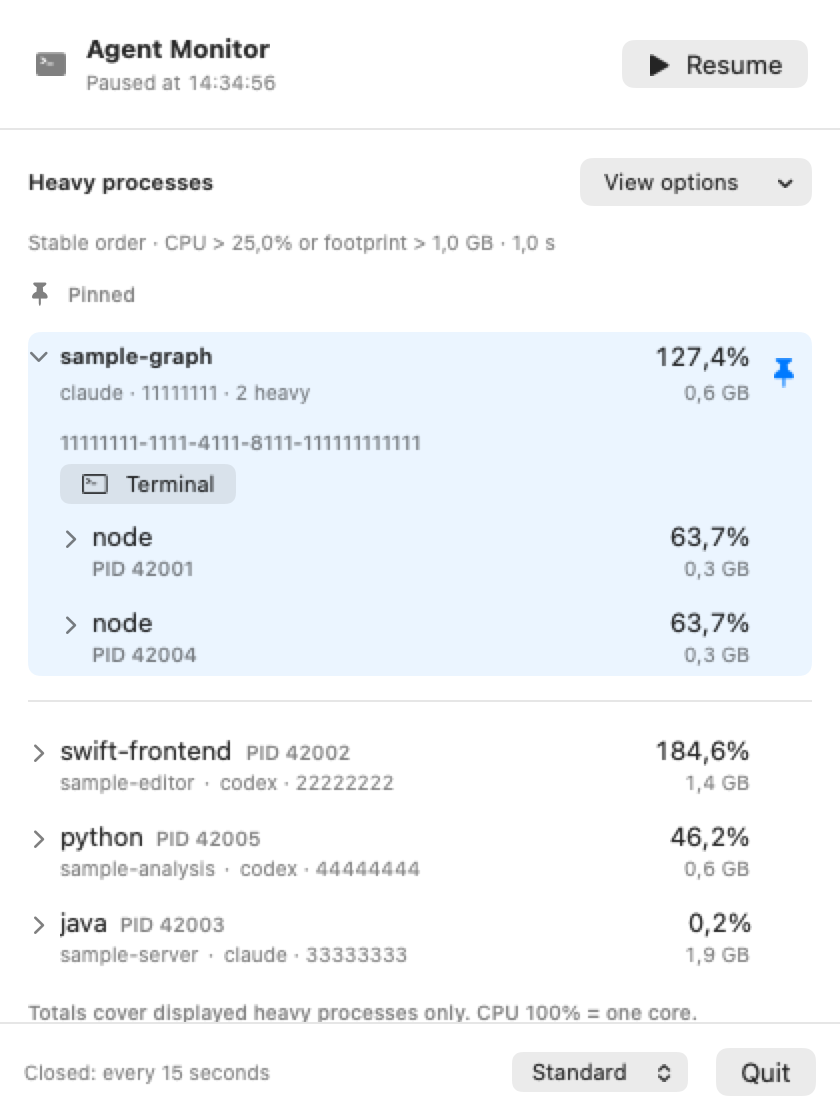
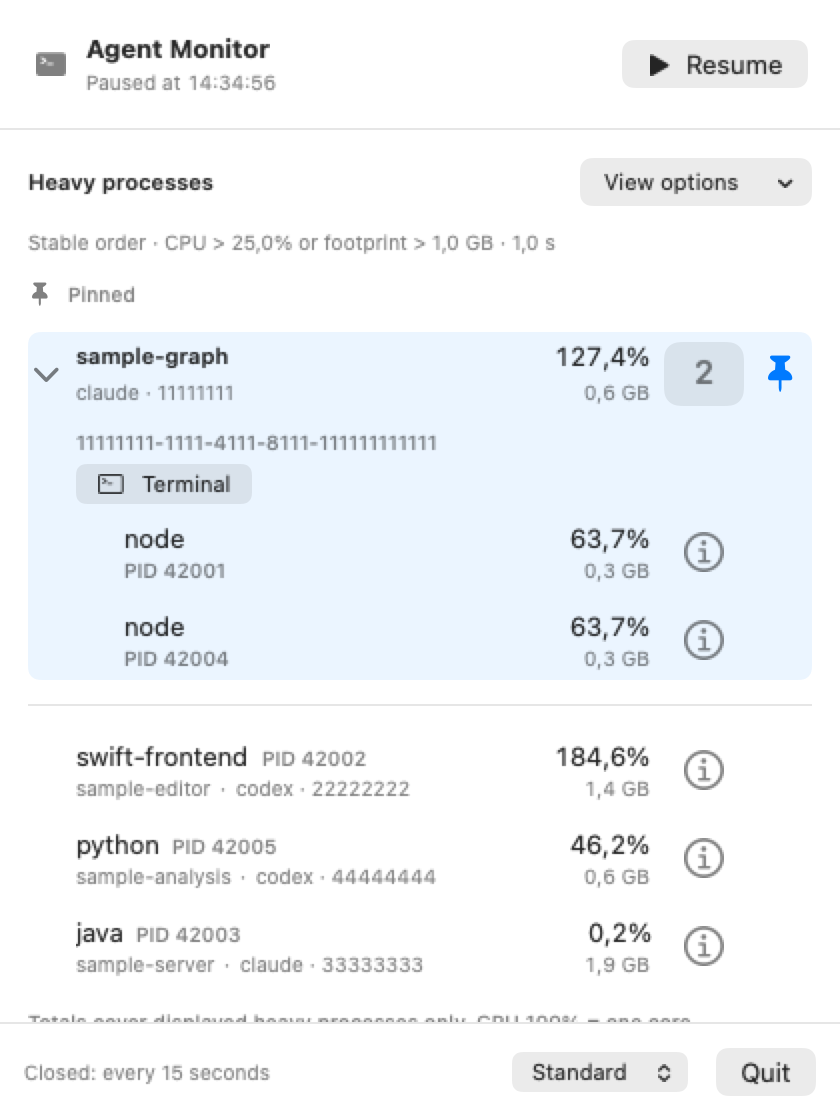
fix(menubar): distinguish groups and enlarge row controls
Reserve chevrons and count badges for session groups so process details have a distinct info affordance. Preserve whole-row toggling while enlarging pointer targets and keeping grouping and sampling unchanged.

diff --git a/Sources/AgentMonitorMenuBar/MenuBarDisclosureStyle.swift b/Sources/AgentMonitorMenuBar/MenuBarDisclosureStyle.swift
@@ -1,8 +1,45 @@
 import AgentMonitorPresentation
 import SwiftUI
 
+enum MenuBarRowDisclosure {
+    case group(count: Int)
+    case process
+
+    func accessibilityValue(expanded: Bool) -> String {
+        switch self {
+        case .group: expanded ? "Processes shown" : "Processes hidden"
+        case .process: expanded ? "Details shown" : "Details hidden"
+        }
+    }
+}
+
+struct MenuBarRowAccessory: View {
+    let disclosure: MenuBarRowDisclosure
+
+    var body: some View {
+        Group {
+            switch disclosure {
+            case .group(let count):
+                Text(count, format: .number.grouping(.never))
+                    .font(.system(size: 16, weight: .semibold, design: .rounded)).monospacedDigit()
+                    .padding(.horizontal, 4)
+                    .frame(minWidth: 40, minHeight: 32)
+                    .background(.primary.opacity(0.09), in: RoundedRectangle(cornerRadius: 8))
+                    .accessibilityLabel("\(count) heavy processes")
+            case .process:
+                Image(systemName: "info.circle")
+                    .font(.system(size: 20))
+                    .frame(width: 40, height: 32)
+                    .accessibilityLabel("Process details")
+            }
+        }
+        .foregroundStyle(.secondary)
+    }
+}
+
 struct MenuBarDisclosureStyle: DisclosureGroupStyle {
     let id: LiveReportRowID
+    let disclosure: MenuBarRowDisclosure
     let pinned: Bool
     let arrived: Bool
     let focus: FocusState<LiveReportRowID?>.Binding
@@ -12,13 +49,14 @@ struct MenuBarDisclosureStyle: DisclosureGroupStyle {
     func makeBody(configuration: Configuration) -> some View {
         VStack(alignment: .leading, spacing: 0) {
             MenuBarRowHeader(
-                id: id, pinned: pinned, expanded: configuration.isExpanded, focus: focus,
+                id: id, disclosure: disclosure, pinned: pinned, expanded: configuration.isExpanded,
+                focus: focus,
                 onToggle: { configuration.isExpanded.toggle() }, onPin: onPin, onPinShortcut: onPinShortcut,
                 label: configuration.label
             )
             .background(MenuBarArrivalBackground(highlighted: arrived))
             if configuration.isExpanded {
-                configuration.content.padding(.leading, 16)
+                configuration.content.padding(.leading, 24)
             }
         }
         .background(pinned ? Color.accentColor.opacity(0.08) : .clear, in: RoundedRectangle(cornerRadius: 6))
@@ -27,6 +65,7 @@ struct MenuBarDisclosureStyle: DisclosureGroupStyle {
 
 private struct MenuBarRowHeader<Label: View>: View {
     let id: LiveReportRowID
+    let disclosure: MenuBarRowDisclosure
     let pinned: Bool
     let expanded: Bool
     let focus: FocusState<LiveReportRowID?>.Binding
@@ -40,11 +79,19 @@ private struct MenuBarRowHeader<Label: View>: View {
     var body: some View {
         HStack(spacing: 2) {
             Button(action: onToggle) {
-                HStack(alignment: .firstTextBaseline, spacing: 6) {
-                    Image(systemName: expanded ? "chevron.down" : "chevron.right")
-                        .font(.caption2.weight(.semibold)).foregroundStyle(.secondary)
-                        .frame(width: 10).accessibilityHidden(true)
+                HStack(spacing: 6) {
+                    Group {
+                        switch disclosure {
+                        case .group:
+                            Image(systemName: expanded ? "chevron.down" : "chevron.right")
+                                .font(.system(size: 14, weight: .semibold)).foregroundStyle(.secondary)
+                        case .process:
+                            Color.clear
+                        }
+                    }
+                    .frame(width: 18, height: 32).accessibilityHidden(true)
                     label
+                    MenuBarRowAccessory(disclosure: disclosure)
                 }
                 .frame(maxWidth: .infinity, alignment: .leading)
                 .padding(.vertical, 4).contentShape(Rectangle())
@@ -54,7 +101,7 @@ private struct MenuBarRowHeader<Label: View>: View {
                 onToggle()
                 return .handled
             }
-            .accessibilityValue(expanded ? "Expanded" : "Collapsed")
+            .accessibilityValue(disclosure.accessibilityValue(expanded: expanded))
             MenuBarPinButton(pinned: pinned, action: onPin)
                 .opacity(pinned || hovered || pinFocused || focus.wrappedValue == id ? 1 : 0)
                 .focused($pinFocused)

diff --git a/Sources/AgentMonitorMenuBar/MenuBarView.swift b/Sources/AgentMonitorMenuBar/MenuBarView.swift
@@ -202,9 +202,12 @@ struct MenuBarView: View {
         }
     }
 
-    private func disclosureStyle(for id: LiveReportRowID) -> MenuBarDisclosureStyle {
+    private func disclosureStyle(
+        for id: LiveReportRowID, disclosure: MenuBarRowDisclosure
+    ) -> MenuBarDisclosureStyle {
         MenuBarDisclosureStyle(
-            id: id, pinned: model.report.isPinned(id), arrived: model.arrivals.deadlines[id] != nil,
+            id: id, disclosure: disclosure, pinned: model.report.isPinned(id),
+            arrived: model.arrivals.deadlines[id] != nil,
             focus: $focusedRow,
             onPin: { model.togglePin(id) }, onPinShortcut: { togglePinFromKeyboard(id) })
     }
@@ -268,7 +271,7 @@ struct MenuBarView: View {
                 }
                 HStack {
                     Text(
-                        "\(group.provider?.rawValue ?? "unknown") · \(group.sessionID.map { String($0.prefix(8)) } ?? (group.processes.first?.isSharedRuntime == true ? "shared runtime" : "unresolved")) · \(group.processes.count) heavy"
+                        "\(group.provider?.rawValue ?? "unknown") · \(group.sessionID.map { String($0.prefix(8)) } ?? (group.processes.first?.isSharedRuntime == true ? "shared runtime" : "unresolved"))"
                     )
                     .lineLimit(1)
                     Spacer(minLength: 4)
@@ -278,7 +281,9 @@ struct MenuBarView: View {
             }
         }
         .id(LiveReportRowID.group(group.id))
-        .disclosureGroupStyle(disclosureStyle(for: .group(group.id)))
+        .disclosureGroupStyle(
+            disclosureStyle(for: .group(group.id), disclosure: .group(count: group.processes.count))
+        )
         .contextMenu { rowCommands(.group(group.id)) }
     }
 
@@ -333,7 +338,7 @@ struct MenuBarView: View {
                 footprintText: resource(process.footprintBytes.map { Double($0) / 1e9 }, unit: " GB"))
         }
         .id(LiveReportRowID.process(process.process))
-        .disclosureGroupStyle(disclosureStyle(for: .process(process.process)))
+        .disclosureGroupStyle(disclosureStyle(for: .process(process.process), disclosure: .process))
         .contextMenu { rowCommands(.process(process.process)) }
     }
 

diff --git a/Tests/AgentMonitorMenuBarTests/MenuBarRenderTests.swift b/Tests/AgentMonitorMenuBarTests/MenuBarRenderTests.swift
@@ -8,11 +8,31 @@ import Testing
 @testable import AgentMonitorMenuBar
 
 @Test(arguments: [false, true])
-@MainActor func pinControlKeepsItsCompactFootprint(pinned: Bool) {
+@MainActor func pinControlHasAnEasyPointerTarget(pinned: Bool) {
     _ = NSApplication.shared
     let host = NSHostingView(rootView: MenuBarPinButton(pinned: pinned) { true })
     host.layoutSubtreeIfNeeded()
-    #expect(host.fittingSize == NSSize(width: 28, height: 28))
+    #expect(host.fittingSize == NSSize(width: 32, height: 32))
+}
+
+@Test(arguments: [MenuBarRowDisclosure.process, .group(count: 6), .group(count: 60), .group(count: 600)])
+@MainActor func rowAccessoriesHaveAnAlignedLargeTarget(disclosure: MenuBarRowDisclosure) {
+    _ = NSApplication.shared
+    let host = NSHostingView(rootView: MenuBarRowAccessory(disclosure: disclosure))
+    host.layoutSubtreeIfNeeded()
+    #expect(host.fittingSize == NSSize(width: 40, height: 32))
+}
+
+@Test @MainActor func groupBadgePreservesLargeCountsWithoutClipping() {
+    _ = NSApplication.shared
+    let host = NSHostingView(rootView: MenuBarRowAccessory(disclosure: .group(count: 12345)))
+    let number = NSHostingView(
+        rootView: Text("12345").font(.system(size: 16, weight: .semibold, design: .rounded)).monospacedDigit()
+    )
+    host.layoutSubtreeIfNeeded()
+    number.layoutSubtreeIfNeeded()
+    #expect(host.fittingSize.width >= number.fittingSize.width + 8)
+    #expect(host.fittingSize.height == 32)
 }
 
 @Test(
@@ -130,7 +150,7 @@ import Testing
     }
 }
 
-@Test(arguments: [320.0, 376.0], [false, true])
+@Test(arguments: [244.0, 280.0, 320.0, 376.0], [false, true])
 @MainActor func processSummaryFitsTwoLines(width: Double, showsSession: Bool) throws {
     let snapshot = try menuBarFixture(
         name: "swift-frontend-with-a-long-process-name", project: "a-project-with-a-long-directory-name")

diff --git a/Sources/AgentMonitorMenuBar/MenuBarPinButton.swift b/Sources/AgentMonitorMenuBar/MenuBarPinButton.swift
@@ -9,7 +9,8 @@ struct MenuBarPinButton: View {
             _ = action()
         } label: {
             Image(systemName: pinned ? "pin.fill" : "pin")
-                .frame(width: 28, height: 28).contentShape(Rectangle())
+                .font(.system(size: 16))
+                .frame(width: 32, height: 32).contentShape(Rectangle())
         }
         .buttonStyle(.plain).foregroundStyle(pinned ? Color.accentColor : .secondary)
         .accessibilityLabel(pinned ? "Unpin" : "Pin")

diff --git a/docs/development.md b/docs/development.md
@@ -137,7 +137,7 @@ Run `uv run scripts/verify-json-schema.py .build/release/agent-monitor` to valid
 
 Build with `bash scripts/menubar.sh build`; the default is an optimized release build with debug-symbol generation disabled. Use `AGENT_MONITOR_BUILD_CONFIGURATION=debug bash scripts/menubar.sh build` for an unoptimized local build, or `swift run agent-monitor-menubar` for normal debugger symbols. The local ad-hoc bundle is `.build/Agent Monitor.app`. Use `bash scripts/menubar.sh run` to launch with the shell PATH, or `swift run agent-monitor-menubar` for direct executable development. The menu bar app is a maintained source-built feature. Its local bundle is not included in CLI release archives or Homebrew installation; distribution is deferred until the app is finished. It adds no third-party dependencies. CI builds the local app bundle and checks its property list and ad-hoc signature.
 
-Run `swift test --filter AgentMonitorMenuBarTests` for lifecycle and fake-action coverage: explicit lifecycle startup with a single 250 ms first sample, 15-second closed sampling, open/closed cadence switching without duplicate collectors, static-mode cancellation, stale-result rejection, sequential reopening, visible collection errors, frozen termination identity, explicit message review, root routing, uncertain-send handling and closed-panel action rejection. Draft tests cover dismissal during composition/review, fresh recipient preparation, explicit cancellation, failed target/recipient verification, protection against overwriting another draft and uncertain-send exclusion. Native layout tests bound process summaries to two lines at compact widths and verify fixed panel height through sparse lists, disclosure/overflow, pausing and action review, plus user-selected sizes, screen limits and inline keyboard help. An offscreen inheritance test changes the parent appearance light → dark → light and checks the semantic background and unchanged geometry. Pause tests hold row membership/order and details, apply the latest pending sample on resume, guard action review and reset to live on reopening; TUI tests also cover visible pause/resume cues at narrow widths. Pin tests cover live values and insertion order, missing targets, PID reuse, return/unpin, grouping changes and parent/child overlap without duplicated rows or inflated totals. Native model tests cover settings/pins across dismissal, sampling control delivery without restart, focus traversal through flattened/pinned rows, and fake group terminal focus. Native menu tests cover first-layout availability and first-mouse acceptance, checked presets/custom current values, action dispatch, and retention of the same control/submenu objects across loading, empty and populated reports. Delegate tracking is simulated; these guards do not establish physical click delivery or live submenu tracking on a display. Pin command tests reject hidden/stale targets and action panels while permitting missing-pin removal. Existing core/presentation/action tests continue to guard attribution, grouping and transport behavior. Status-menu tests cover secondary-click routing, waiting/unavailable/static status, heavy-count explanations independent of table filters, shared checked options, deferred Open/Quit command selection and unchanged menu content while sampling continues. They do not establish physical event delivery or menu positioning. No test sends messages or signals live workloads.
+Run `swift test --filter AgentMonitorMenuBarTests` for lifecycle and fake-action coverage: explicit lifecycle startup with a single 250 ms first sample, 15-second closed sampling, open/closed cadence switching without duplicate collectors, static-mode cancellation, stale-result rejection, sequential reopening, visible collection errors, frozen termination identity, explicit message review, root routing, uncertain-send handling and closed-panel action rejection. Draft tests cover dismissal during composition/review, fresh recipient preparation, explicit cancellation, failed target/recipient verification, protection against overwriting another draft and uncertain-send exclusion. Native layout tests check 32-point pin targets, aligned 40 × 32-point count/info controls and uncropped large counts. They bound process summaries to two lines at compact widths and verify fixed panel height through sparse lists, disclosure/overflow, pausing and action review, plus user-selected sizes, screen limits and inline keyboard help. An offscreen inheritance test changes the parent appearance light → dark → light and checks the semantic background and unchanged geometry. Pause tests hold row membership/order and details, apply the latest pending sample on resume, guard action review and reset to live on reopening; TUI tests also cover visible pause/resume cues at narrow widths. Pin tests cover live values and insertion order, missing targets, PID reuse, return/unpin, grouping changes and parent/child overlap without duplicated rows or inflated totals. Native model tests cover settings/pins across dismissal, sampling control delivery without restart, focus traversal through flattened/pinned rows, and fake group terminal focus. Native menu tests cover first-layout availability and first-mouse acceptance, checked presets/custom current values, action dispatch, and retention of the same control/submenu objects across loading, empty and populated reports. Delegate tracking is simulated; these guards do not establish physical click delivery or live submenu tracking on a display. Pin command tests reject hidden/stale targets and action panels while permitting missing-pin removal. Existing core/presentation/action tests continue to guard attribution, grouping and transport behavior. Status-menu tests cover secondary-click routing, waiting/unavailable/static status, heavy-count explanations independent of table filters, shared checked options, deferred Open/Quit command selection and unchanged menu content while sampling continues. They do not establish physical event delivery or menu positioning. No test sends messages or signals live workloads.
 
 For an opt-in grouping microbenchmark, run `MENUBAR_GROUPING_MEASUREMENT_PATH=/tmp/native-grouping.json swift test --filter measureNativeGroupingProjection`. It compares two reads with one local read of the production grouping getter across synthetic workloads. The output measures that expression only; it does not establish whole-app CPU usage or scrolling performance.
 

diff --git a/PLAN.md b/PLAN.md
@@ -10,7 +10,7 @@ Keep this file limited to unfinished work, scope decisions and the next action. 
 
 - [ ] **ACTIONS-03 — Complete manual terminal-focus validation.** Terminal.app tab selection is implemented and was confirmed by the user on 2026-10-15. Next action: check a background window, minimized window, another Space, full screen, monitor and target in the same window, and the first Automation prompt using disposable tabs. Follow the [manual gate](docs/development.md#manual-terminal-focus-check); fake-adapter tests cannot establish macOS activation behavior.
 - [ ] **MENUBAR-01 — Validate the native menu bar app.** Try the [menu bar app](docs/usage.md#menu-bar-app) for layout, dismissal/reopening and composing in the popover. Live app Automation/focus and provider messaging need disposable-session validation; measure ten-minute closed-panel CPU/wakeups separately for the live 15-second icon and static mode before making sustained-energy claims. Distribution is deferred until the app is finished; feature expansion remains a separate decision.
-- [ ] **MENUBAR-03 — Validate live resizing and native accessibility.** Offscreen checks cover fixed heights across sparse/expanded/paused/action states, user-selected sizes, screen capping, inherited light/dark appearance and menu identity across updates. Check live anchoring while changing the size preset, pin hover/focus feedback and repeated ⌘P, right-click/Control-click status-menu opening and return to normal left-click, first-click View options opening and submenu tracking during refreshes, row arrow/Enter navigation with scroll-to-focus, and VoiceOver with synthetic fixtures; [reference findings](docs/research/native-menu-design.md#unresolved-empirical-questions) distinguish source/offscreen evidence from live interaction.
+- [ ] **MENUBAR-03 — Validate live resizing and native accessibility.** Offscreen checks cover fixed heights across sparse/expanded/paused/action states, user-selected sizes, screen capping, inherited light/dark appearance and menu identity across updates. Check live anchoring while changing the size preset, enlarged group/count/info targets and their VoiceOver meaning, pin hover/focus feedback and repeated ⌘P, right-click/Control-click status-menu opening and return to normal left-click, first-click View options opening and submenu tracking during refreshes, row arrow/Enter navigation with scroll-to-focus, and VoiceOver with synthetic fixtures; [reference findings](docs/research/native-menu-design.md#unresolved-empirical-questions) distinguish source/offscreen evidence from live interaction.
 - [ ] **TUI-11 — Correct terminal-cell sizing for wide Unicode names.** The report table measures characters rather than display cells, so wide names can misalign columns. This existing limitation is separate from action-panel sizing. Next action, when selected: reproduce it with a failing layout test before changing width calculation.
 
 Real terminal Codex workload attribution and live Codex child-recipient routing/message delivery remain [coverage gaps](docs/development.md#validation-coverage), not unfinished PoC acceptance gates. Do not manufacture agent work or send messages to existing sessions to close them without specific authorization.
@@ -19,6 +19,10 @@ Real terminal Codex workload attribution and live Codex child-recipient routing/
 
 The shipped scope includes text/TUI/JSONL reports, session grouping in text and TUI, built-in Codex/Claude attribution, confirmed single-process termination, verified session messaging and terminal focus through both TUI and CLI actions. Preserve the [architecture boundaries](docs/architecture.md) when extending it.
 
-Pending ideas: a compact provider column with sorting and a command-line-only provider filter; author credit in `--help`. Provider recognition must come from attribution adapters. These ideas are not part of the completed adapter extraction.
+Pending ideas, not yet approved for implementation:
+
+- A compact provider column with sorting and a command-line-only provider filter. Provider recognition must come from attribution adapters; this is separate from the completed extraction.
+- Author credit in `--help`.
+- A shared TUI/native history strip. The current recommendation is one slim strip with a selectable metric (CPU by default, footprint or heavy-process count), not three simultaneous charts. Show five minutes of history, reusing normal samples with explicit gaps. CPU/footprint would be independent of table filters. Agree on the values and layout before implementing; verify incremental TUI collection cost because the optional all-agent summary is currently native-only.
 
 Production app packaging, desktop/remote/container attribution, broader platform/provider support, notifications, background monitoring services, additional terminal adapters/tmux resolution, optional session metrics and external plugins need separate scope decisions. The native menu bar app is maintained as a source-built feature with shared sampling, grouping and verified actions; its [architecture](docs/architecture.md#native-menu-bar-app) defines 15-second closed-panel sampling for the live icon and no closed-panel sampling for the optional static icon. The [retained proposal](docs/proposals/menubar-app.md) retains deferred product decisions. The [working-model proposal](docs/proposals/agent-working-model.md) does not authorize delegation. Dated source findings belong in the [research index](docs/research/README.md).

diff --git a/docs/usage.md b/docs/usage.md
@@ -138,7 +138,7 @@ For the complete option reference and defaults, run `agent-monitor --help`.
 
 ## Menu bar app
 
-From a source checkout, run `bash scripts/menubar.sh run` and click the load icon in the menu bar. This opens a compact native panel, never a standalone window. The app follows the system’s light/dark appearance, using native background, text and accent colors without a separate theme setting. The panel keeps its height as rows update or details expand; content scrolls inside it. Choose **Compact**, **Standard** or **Tall** in the footer to change the height and see less or more content. The choice lasts until quit and is capped to fit the screen when opening. Click anywhere on a row to expand or collapse it. Unpinned sessions with one displayed heavy process show that process directly, including its project and session context; sessions with multiple displayed processes and pinned sessions get a group row. Compact two-line summaries place CPU beside the process/PID and footprint beside project/session context. Expand a process to inspect attribution and find **Terminal**, **Message…** and **Terminate…**. Open **View options** for **Sessions / Processes**, Stable order or CPU/footprint/PID sorting, ascending order, CPU and footprint thresholds, and the sampling interval. Show and Sort by offer their checked choices directly in the menu. CPU, footprint and interval submenus list actual values with a checkmark beside the current selection; the panel interval ranges from 0.5 to 60 seconds, including 15 seconds. The TUI retains its incremental controls. The dropdown stays stable while samples arrive. Changes apply to the running collector without restarting its CPU baseline; a pending label remains until the displayed sample uses the requested thresholds. Display/sampling choices survive panel dismissal until quit. The app starts with the default agent-only scope and thresholds.
+From a source checkout, run `bash scripts/menubar.sh run` and click the load icon in the menu bar. This opens a compact native panel, never a standalone window. The app follows the system’s light/dark appearance, using native background, text and accent colors without a separate theme setting. The panel keeps its height as rows update or details expand; content scrolls inside it. Choose **Compact**, **Standard** or **Tall** in the footer to change the height and see less or more content. The choice lasts until quit and is capped to fit the screen when opening. Click anywhere on a row to expand or collapse it. Session groups have a larger chevron and a gray count badge for their displayed heavy processes; individual processes have an info-circle control instead. The badge and info control share the trailing column and are part of the whole-row click target. Expanded children are indented. Pin remains a separate, enlarged button. Unpinned sessions with one displayed heavy process show that process directly, including its project and session context; sessions with multiple displayed processes and pinned sessions get a group row. Compact two-line summaries place CPU beside the process/PID and footprint beside project/session context. Expand a process to inspect attribution and find **Terminal**, **Message…** and **Terminate…**. Open **View options** for **Sessions / Processes**, Stable order or CPU/footprint/PID sorting, ascending order, CPU and footprint thresholds, and the sampling interval. Show and Sort by offer their checked choices directly in the menu. CPU, footprint and interval submenus list actual values with a checkmark beside the current selection; the panel interval ranges from 0.5 to 60 seconds, including 15 seconds. The TUI retains its incremental controls. The dropdown stays stable while samples arrive. Changes apply to the running collector without restarting its CPU baseline; a pending label remains until the displayed sample uses the requested thresholds. Display/sampling choices survive panel dismissal until quit. The app starts with the default agent-only scope and thresholds.
 
 Point at a row or focus it with the keyboard to reveal **Pin**. A pinned row keeps its pin button visible; click it again to unpin. The row context menu offers **Pin/Unpin**, **Focus terminal**, **Message…** and **Terminate…**. Unavailable actions remain visible but dimmed, including actions on missing pins, messaging without an exact verified session, and terminal focus without a known terminal runtime. Group rows support focus when their processes agree on one runtime; expand and choose a process for messaging or termination. Terminate still opens confirmation, and Message still opens composition and review. Pins appear in a highlighted section above the other results. Click the row itself to expand/collapse, as before. A pinned session stays a session header even when only one heavy process remains. If a pinned target is absent from the heavy results, its row says **Not in current results** and keeps the same filled pin icon for unpinning. The target may have fallen below the filters, exited or become unreadable; the placeholder does not distinguish these causes. Its live row returns when the same identity appears again.
 

diff --git a/docs/architecture.md b/docs/architecture.md
@@ -136,7 +136,7 @@ A third provider requires an explicit revision of the closed provider enum and J
 
 Apple's interface guidance is the platform baseline; CodexBar is the primary visual reference for density, hierarchy and progressive disclosure, with RepoBar and Trimmy as secondary comparisons. The inline composer and action review justify the complex-content exception to Apple's preference for a menu. Keep system typography and semantic colors, and preserve shared core/action ownership. Reference observations and their limits are recorded in [native menu design research](research/native-menu-design.md).
 
-`AgentMonitorMenuBar` hosts SwiftUI content in a transient, non-detachable AppKit `NSPopover` anchored to a fixed-width `NSStatusItem`. It is an accessory app, with no standalone window. Native disclosure rows, sorting, resource summaries and inline action review replace terminal cell layout. Disclosure headers are full-width buttons; details and action controls stay outside the toggle target. An unpinned session with one displayed heavy process renders directly as a process row with project/session context; multiple displayed processes and explicitly pinned sessions retain a group header. Process summaries use two lines: process/PID and CPU above project/session and footprint, with clipped project names available in a tooltip and full attribution in details. This native projection does not change grouping identities, totals or the TUI hierarchy. The view consumes `LiveReportState` and `SessionGrouping`; direct row selection is a neutral presentation operation shared with keyboard navigation. No provider recognition or process collection lives in the view. Each native report render builds one neutral `ReportProjection` and reuses its groups for process/session labels and its pinned/unpinned rows for rendering; there is no persistent grouping cache. Native row focus follows process/session identities; up/down traverses the native projection, including flattened singletons, while Enter opens details.
+`AgentMonitorMenuBar` hosts SwiftUI content in a transient, non-detachable AppKit `NSPopover` anchored to a fixed-width `NSStatusItem`. It is an accessory app, with no standalone window. Native disclosure rows, sorting, resource summaries and inline action review replace terminal cell layout. Disclosure headers are full-width buttons; details and action controls stay outside the toggle target. `MenuBarRowDisclosure` gives the native style an explicit group count or process kind. Only groups show a leading chevron; their trailing count badge and process info symbol share a minimum 40 × 32-point slot inside the row toggle. Counts can widen to preserve all digits. The separate pin button has a 32 × 32-point target. Child indentation is 24 points, and accessibility values distinguish showing processes from showing details. Counts still cover the group’s complete displayed heavy findings, including individually pinned members. An unpinned session with one displayed heavy process renders directly as a process row with project/session context; multiple displayed processes and explicitly pinned sessions retain a group header. Process summaries use two lines: process/PID and CPU above project/session and footprint, with clipped project names available in a tooltip and full attribution in details. This native projection does not change grouping identities, totals or the TUI hierarchy. The view consumes `LiveReportState` and `SessionGrouping`; direct row selection is a neutral presentation operation shared with keyboard navigation. No provider recognition or process collection lives in the view. Each native report render builds one neutral `ReportProjection` and reuses its groups for process/session labels and its pinned/unpinned rows for rendering; there is no persistent grouping cache. Native row focus follows process/session identities; up/down traverses the native projection, including flattened singletons, while Enter opens details.
 
 The native panel keeps a user-chosen height through sampling, disclosure, pausing and action review. Compact, Standard (default) and Tall select 420, 560 and 720 points; width stays 420 points. The choice lasts until quit. On opening, the host caps the height to the current screen's visible height minus 40 points. Report or action content scrolls in the remaining space between fixed header and footer controls. Root geometry changes update the popover size, with unchanged sizes ignored. The hosting view retains intrinsic sizing and is fitted before assignment to avoid an initial zero-size popover. `MenuBarLayout` and `MenuBarPanelSize` own these dimensions; no detached or standalone window is introduced.
 

diff --git a/CLAUDE.md b/CLAUDE.md
@@ -48,7 +48,7 @@ Use `swiftui-view-refactor` for native view structure/dependency/Observation rev
 
 On a fresh clone, the tracked skill symlinks do not resolve until `install` populates ignored `.skill-sources/` at the locked revisions. Skills are optional development aids, not build/runtime dependencies. Do not commit those source checkouts, change the lock during routine setup, or install skills globally. The read-only doctor reports missing skills as optional and broken installed skills as an error.
 
-Keep left-click for the panel and right-click/Control-click for the status menu. Reuse option commands between the panel and status menu, and expose load explanations through the menu and accessibility text. Keep native View options menu tracking independent of report refreshes: preserve the AppKit button/menu and rebuild entries only before opening, never while tracking. Preserve checked current values, including values outside the presets. Inherit system light/dark appearance with semantic colors and template status images; do not force a theme or poll appearance. Live rows and unavailable pin placeholders share `MenuBarPinButton`; keep its appearance and unpin action consistent across sampling states. Native ⌘P is scoped to the focused row; TUI Space pins and `p` pauses. See [native interaction contracts](docs/architecture.md#native-menu-bar-app).
+Keep left-click for the panel and right-click/Control-click for the status menu. Reuse option commands between the panel and status menu, and expose load explanations through the menu and accessibility text. Keep native View options menu tracking independent of report refreshes: preserve the AppKit button/menu and rebuild entries only before opening, never while tracking. Preserve checked current values, including values outside the presets. Inherit system light/dark appearance with semantic colors and template status images; do not force a theme or poll appearance. Live rows and unavailable pin placeholders share `MenuBarPinButton`; keep its appearance and unpin action consistent across sampling states. Reserve native row chevrons for session children, show a prominent heavy-process count badge, and use an info control for process details. Keep the whole header clickable and retain enlarged pointer targets. Native ⌘P is scoped to the focused row; TUI Space pins and `p` pauses. See [native interaction contracts](docs/architecture.md#native-menu-bar-app).
 
 Keep the generated [README preview](docs/assets/tui-preview.svg) current when changing layout, displayed text, grouping, details, or synthetic fixtures. Run `bash scripts/preview.sh update`, visually review the SVG, and commit it with the change; then run `bash scripts/preview.sh check`. Edit [the generator and fixture](Tools/Preview/), never the SVG by hand. Use synthetic identities and paths only; never sample real processes for documentation images. The generator is development-only and must not be included in release archives. CI runs preview drift checks and Swift tests on every pull request and main push. The SVG verifies text/layout, not terminal interaction or exact theme colors; preserve PTY tests and visually review TUI style changes. See [preview maintenance](docs/development.md#readme-preview).
 

diff --git a/docs/research/development-tools.md b/docs/research/development-tools.md
@@ -147,3 +147,10 @@ The [SwiftUI performance-audit skill](../../.agents/skills/swiftui-performance-a
 The user reported invisible arrival feedback and clarified that the child’s session was collapsed. The arrival tracker previously marked only new process/group identities; a new child under an existing group was hidden, and a singleton becoming a group also reused an unmarked session identity. Parameterized regressions reproduced both cases before changing the tracker. Each arriving child now also marks its parent header, and semantic grayscale opacity increased from 0.08 to 0.16.
 
 The [Swift Testing skill](../../.agents/skills/swift-testing-expert/SKILL.md) supported deterministic identity/rank and monotonic-deadline tests. The [SwiftUI performance guidance](../../.agents/skills/swiftui-performance-audit/SKILL.md) remained relevant to retaining identity while changing order and limiting animation to backgrounds. Stable order uses presentation-owned process/session ranks, with no new sampling. The startup test exposed the original 15-second initial wait; the native host now requests one 250 ms interval and restores normal cadence after delivery. No sustained-energy improvement is inferred from that startup change.
+
+
+## Distinct row affordances and larger targets — 2026-10-15
+
+The user’s screenshot showed the same small chevron for expanding a session’s children and a process’s details. Source inspection confirmed that `MenuBarRowHeader` drew that symbol unconditionally; the group count appeared only in its caption. The same ambiguity also applied to a flattened singleton process and to a process nested inside an expanded group. The native row style now receives an explicit group count or process kind, preserving existing disclosure bindings and the whole-row button.
+
+The [SwiftUI View Refactor skill](../../.agents/skills/swiftui-view-refactor/SKILL.md) was useful for giving the small count/info view only its presentation input, without adding a view model or passing the collector into it. The [Swift Testing skill](../../.agents/skills/swift-testing-expert/SKILL.md) supported parameterized offscreen sizing checks: the red run measured the old pin at 28 × 28 points against the requested 32-point target, for both pin states. Additional checks cover count/info alignment, large counts and narrow two-line labels. Production-view captures in Aqua and Dark Aqua showed separate count/info controls, aligned resource values and indented children. These are offscreen layout observations; physical pointer targeting and VoiceOver delivery still require user validation.

diff --git a/README.md b/README.md
@@ -85,7 +85,7 @@ The maintained, source-built native menu bar app runs with `bash scripts/menubar
 
 <p><picture><source media="(prefers-color-scheme: dark)" srcset="docs/assets/menubar-preview-dark.webp"><img src="docs/assets/menubar-preview.webp" width="420" height="560" alt="Native Agent Monitor menu bar panel paused for inspection, with an expanded pinned Claude session, Codex and Claude process rows, CPU and memory usage, Resume, View options, and panel size controls."></picture></p>
 
-*Native panel captured from the production view with synthetic data. The expanded session is pinned. Pinning keeps values live; Pause holds the displayed sample. View options contains checked sampling values, display choices and optional keyboard help (including ⌘P to pin the focused row), and the size menu changes the fixed panel height. The capture excludes menu bar anchoring and desktop chrome.*
+*Native panel captured from the production view with synthetic data. The expanded session is pinned; its count badge distinguishes it from process rows with info controls. Pinning keeps values live; Pause holds the displayed sample. View options contains checked sampling values, display choices and optional keyboard help (including ⌘P to pin the focused row), and the size menu changes the fixed panel height. The capture excludes menu bar anchoring and desktop chrome.*
 
 ## Options and defaults
 
